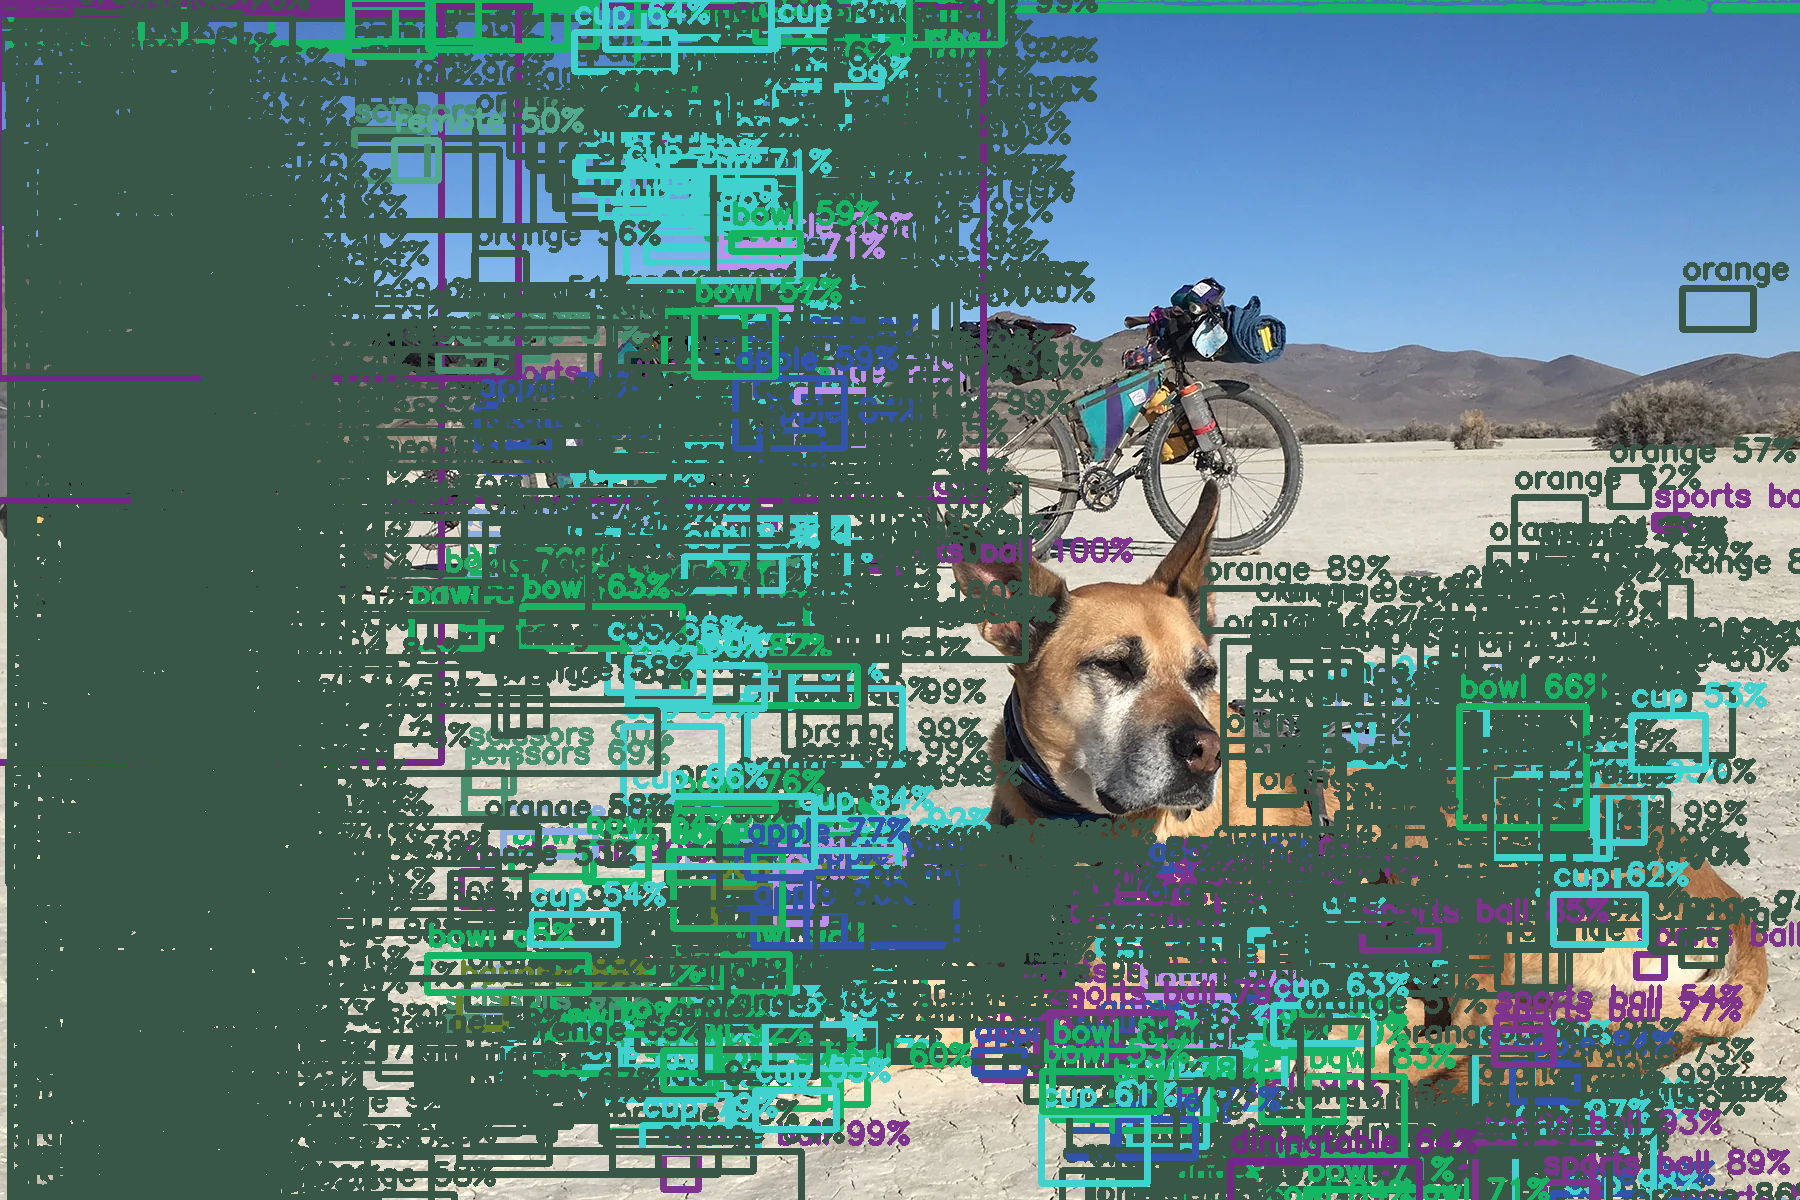
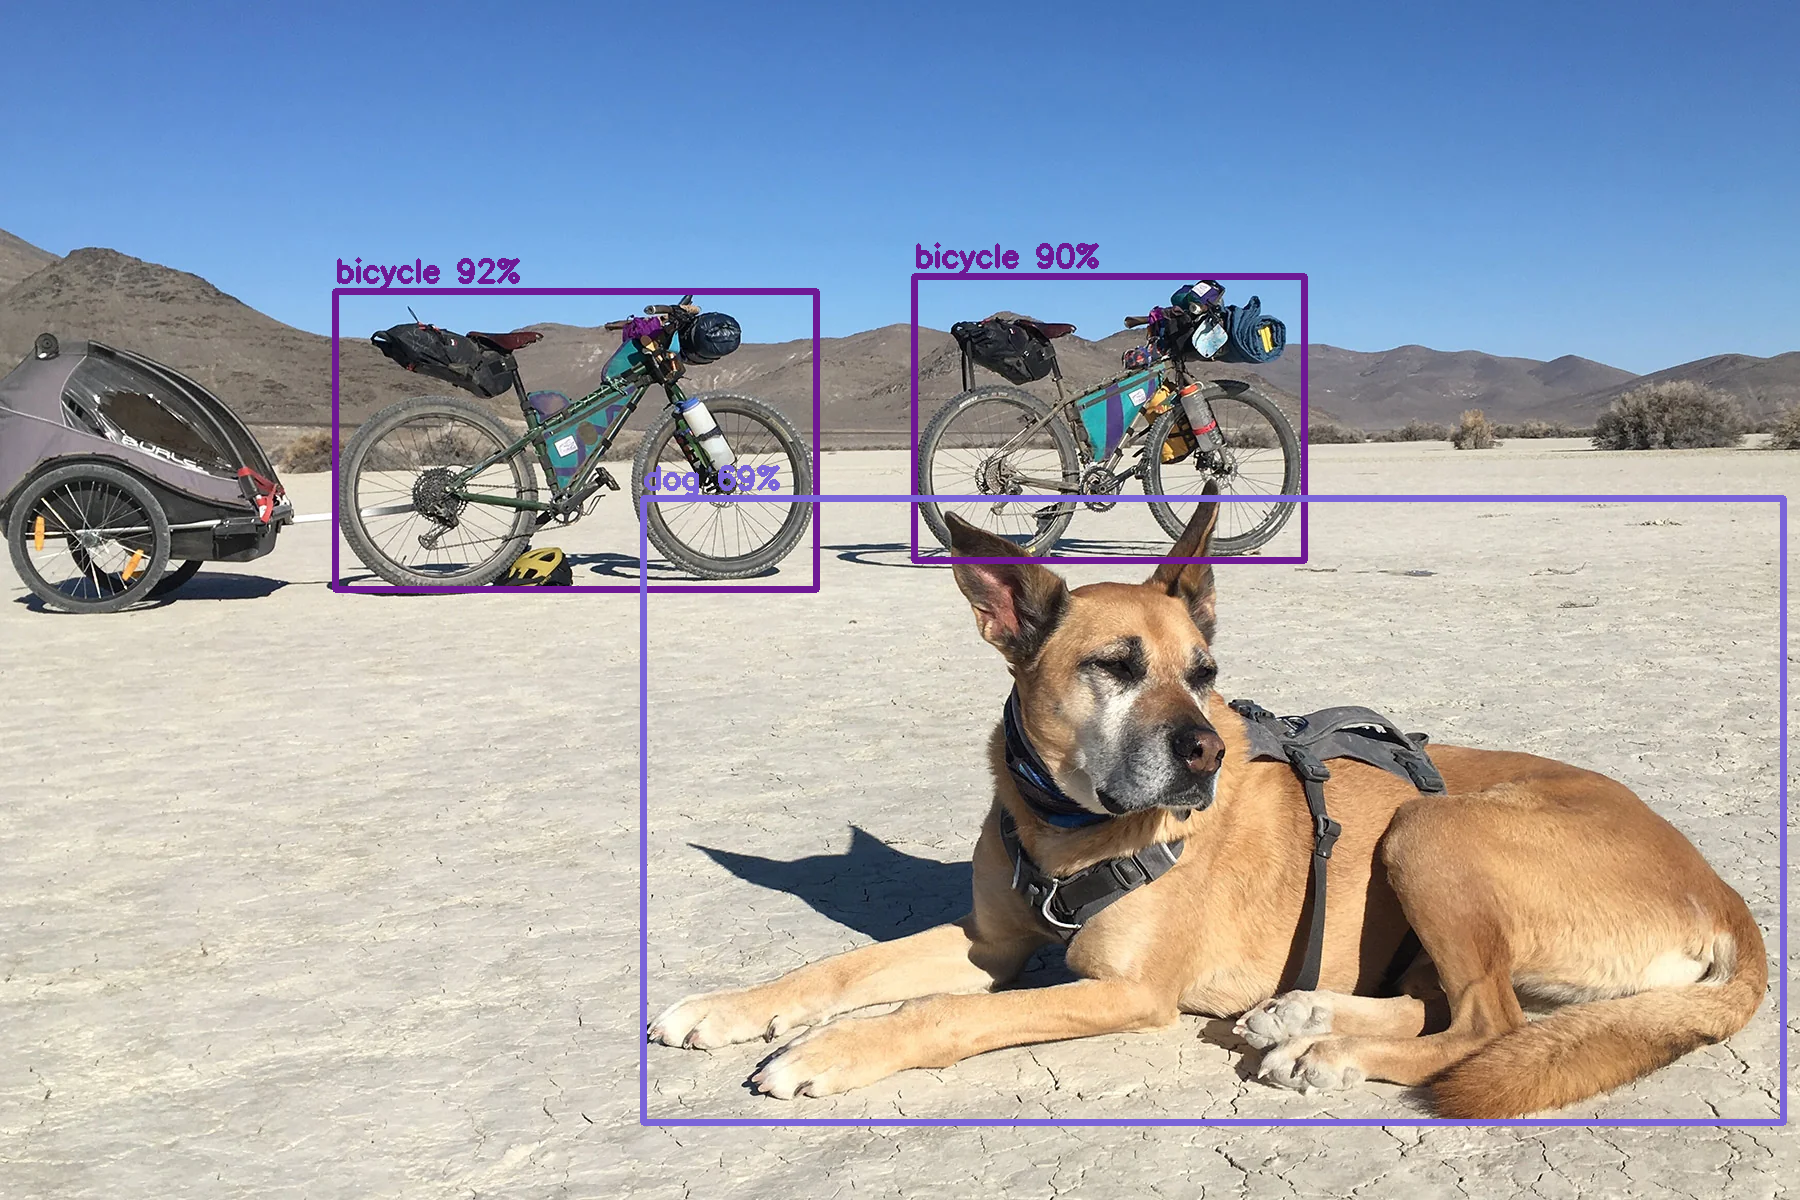
Add Debug Information for Matrix Discovery

diff --git a/main_torchscript.py b/main_torchscript.py
@@ -1,69 +1,28 @@
 """Executable script to apply bounding boxes to images."""
 
 from pathlib import Path
-import sys
 import cv2
 import numpy as np
 import torch
 from tqdm import tqdm
 import os
 from torch import jit
-import matplotlib.pyplot as plt
+import torchshow as ts
 
-
-def forward_pass(
-    image: np.ndarray, network: cv2.dnn.Net, output_names: tuple
-) -> np.ndarray:
-    """Pass a pre-processed image through the network and extract the outputs.
-
-    Will also apply 1/255 scaling to the input image
-    """
-    blob = cv2.dnn.blobFromImage(image, 1 / 255.0)
-    network.setInput(blob)
-    # 1 for output type, 1 for batch dim
-    return network.forward(output_names)[0][0]
-
-
-def draw_bounding_box(img, class_id, confidence, x, y, x_plus_w, y_plus_h, classes):
+def draw_bounding_box(img: np.ndarray,
+                      class_id, 
+                      confidence, 
+                      x: int, 
+                      y: int, 
+                      x_plus_w: int, 
+                      y_plus_h: int, 
+                      classes: np.ndarray) -> np.ndarray:
     colors = np.random.uniform(0, 255, size=(len(classes), 3))
     label = f'{classes[class_id]} ({confidence:.2f})'
     color = colors[class_id]
     cv2.rectangle(img, (x, y), (x_plus_w, y_plus_h), color, 2)
     cv2.putText(img, label, (x - 10, y - 10),
                 cv2.FONT_HERSHEY_SIMPLEX, 1, color, 2)
-
-
-def draw_boxes(
-    image: np.ndarray,
-    boxes: np.ndarray,
-    scores: np.ndarray,
-    class_ids: np.ndarray,
-    class_names: list,
-    class_colors: np.ndarray,
-) -> np.ndarray:
-    """Draw the bounding boxes onto the pixel values of the image."""
-    for box, score, class_id in zip(boxes, scores, class_ids):
-        # Get the pixes coordinates and the appropriate colour and name
-        x, y, w, h = box.astype(int)
-        color = class_colors[class_id]
-        label = f"{class_names[class_id]} {int(score * 100)}%"
-
-        # TODO Find a better way to perform the autoscaling
-        scale = int(0.005 * min(image.shape[:2]))
-
-        # Draw the rectangle and text onto the image
-        cv2.rectangle(image, (x, y), (x + w, y + h), color, thickness=scale)
-        # cv2.getTextSize(label, cv2.FONT_HERSHEY_SIMPLEX, lw//5, lw//2)
-        cv2.putText(
-            image,
-            label,
-            org=(x, y - 10),
-            fontFace=cv2.FONT_HERSHEY_SIMPLEX,
-            fontScale=scale // 4,
-            color=color,
-            thickness=scale // 2,
-        )
-    return image
 
 
 def extract_boxes(predictions: np.ndarray, size_ratio: np.ndarray) -> np.ndarray:
@@ -85,29 +44,19 @@ def main() -> None:
     """Run script."""
 
     # Initial args
-    model_path = "model/yolov7-tiny_480x640.onnx"
     class_name_path = "model/class_names.txt"
     image_folder = "images"
     output_folder = "outputs"
-    conf_threshold = 0.5
-    iou_threshold = 0.5
 
     # Create the output folder if it doesn't exist
     os.makedirs(output_folder, exist_ok=True)
 
-    # Load the pretrained network ONNX file and the associated class names
-    # net = cv2.dnn.readNet(model_path)
-    # output_names = net.getUnconnectedOutLayersNames()
+    # Load the pretrained network torchscript file
+    net = jit.load('./yolov8n.torchscript')
 
-    # Get the expected image dimensions based on the model name (width x height)
-    input_shape = Path(model_path).stem.split("_")[-1].split("x")
-    input_shape = [int(x) for x in input_shape]
-    input_shape = input_shape[::-1]
 
     # Get names and colors to represent each class
     class_names = [x.strip() for x in open(class_name_path).readlines()]
-    class_colors = np.random.default_rng(3).uniform(
-        0, 255, size=(len(class_names), 3))
 
     # Get a list of images to run over
     file_list = list(Path(image_folder).glob("*dog*"))
@@ -128,9 +77,7 @@ def main() -> None:
         print("image type:", type(image))
         print("image")
         print(image[0][0:3], image[0][-1])
-
         # PyTorch Method
-        net = jit.load('./yolov8n.torchscript')
         tensor = torch.from_numpy(image)
         # Transpose height and width
         tensor = tensor.transpose_(0, 1)
@@ -140,17 +87,34 @@ def main() -> None:
         tensor = tensor[[2, 1, 0]]
         tensor = tensor.float()
         tensor = tensor/255
+        r = tensor[0]
+        g = tensor[1]
+        b = tensor[2]
+        print("r Input", r[0][0:10])
+        print("g Input", g[0][0:10])
+        print("b Input", b[0][0:10])
+        
+
+        # ts.show(tensor[0])
+        # ts.show(tensor[1])
+        # ts.show(tensor[2])
+
         tensor = tensor.unsqueeze(0)
+        # tensor
+        print(tensor.dtype)
         # Pass through Network
         output = net(tensor)
         output = output.transpose_(1, 2)
         output = np.array(output)
         output = output.squeeze()
-        # print("output")
-        # print("output", output.shape)
-        # print("outputs.type",type(output))
-        # print("outputs.type",output.dtype)
-        # print(output[0][0:6])
+        print("output")
+        print("output", output.shape)
+        print("outputs.type",type(output))
+        print("outputs.type",output.dtype)
+        print(output[0][0:4])
+        print(output[1][0:4])
+        print(output[2][0:4])
+        print(output[3][0:4])
         rows = output.shape[0]
         boxes = []
         scores = []
@@ -190,7 +154,7 @@ def main() -> None:
         cv2.waitKey(0)
         cv2.destroyAllWindows()
 
-        return detections
+        # return detections
 
 
 if __name__ == "__main__":
